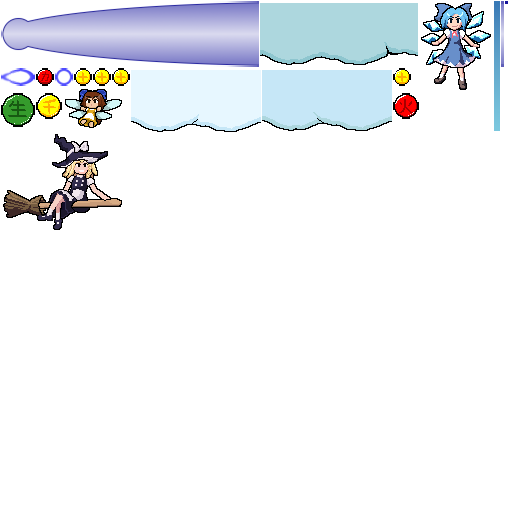
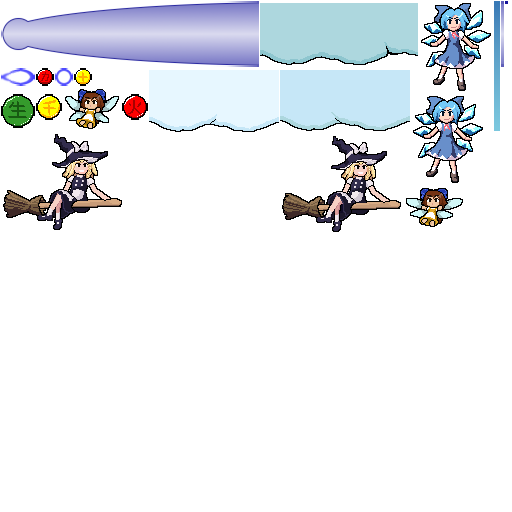
Some animation

Changed region(s): [[0.0, 0.0, 0.9688, 0.4688]]

diff --git a/src/scenes/game/gameScene.ts b/src/scenes/game/gameScene.ts
@@ -11,7 +11,7 @@ import { Pickup } from '../../entities/pickup';
 
 const animation_frames = (frame: string, frames: number) => {
     const ret = [];
-    for (let i = 1; i < frames; i++) {
+    for (let i = 0; i < frames; i++) {
         ret.push({ key: 'packed', frame: `${frame}_${i}` });
     }
     return ret;
@@ -59,7 +59,10 @@ export class GameScene extends Scene {
 
     create() {
         const that = this;
-        //this.anims.create({key: 'star_animation', frames: animation_frames('star', 3), frameRate:6, repeat: -1});
+        this.anims.create({key: 'fairy_animated', frames: animation_frames('fairy', 2), frameRate:6, repeat: -1});
+        this.anims.create({key: 'player_animated', frames: animation_frames('player', 2), frameRate:6, repeat: -1});
+        this.anims.create({key: 'boss_animated', frames: animation_frames('boss', 2), frameRate:6, repeat: -1});
+        console.log(this.anims);
 
         this.physics.world.setBounds(0, 0, 1280, 720);
         this.keymap = this.input.keyboard.addKeys(

diff --git a/src/entities/fairy.ts b/src/entities/fairy.ts
@@ -10,6 +10,7 @@ export class Fairy extends Physics.Arcade.Sprite {
     constructor(scene: GameScene, x: number, y: number) {
         super(scene, x, y, 'packed', 'fairy');
         this.setName(`Fairy ${count++}`);
+        this.play('fairy_animated');
         scene.add.existing(this);
         scene.physics.add.existing(this);
         scene.enemies?.add(this);

diff --git a/src/entities/player.ts b/src/entities/player.ts
@@ -25,6 +25,7 @@ export class Player extends Physics.Arcade.Sprite {
 
     constructor(scene: GameScene, x: number, y: number, keymap: KeyMap) {
         super(scene, x, y, 'packed', 'player');
+        this.play('player_animated');
         this.setName('Player');
         scene.add.existing(this);
         scene.physics.add.existing(this);

diff --git a/src/entities/boss.ts b/src/entities/boss.ts
@@ -10,6 +10,7 @@ export class Boss extends Physics.Arcade.Sprite {
 
     constructor(scene: GameScene, x: number, y: number) {
         super(scene, x, y, 'packed', 'boss');
+        this.play('boss_animated');
         this.setName(`Cirno ${count++}`);
         scene.add.existing(this);
         scene.physics.add.existing(this);
